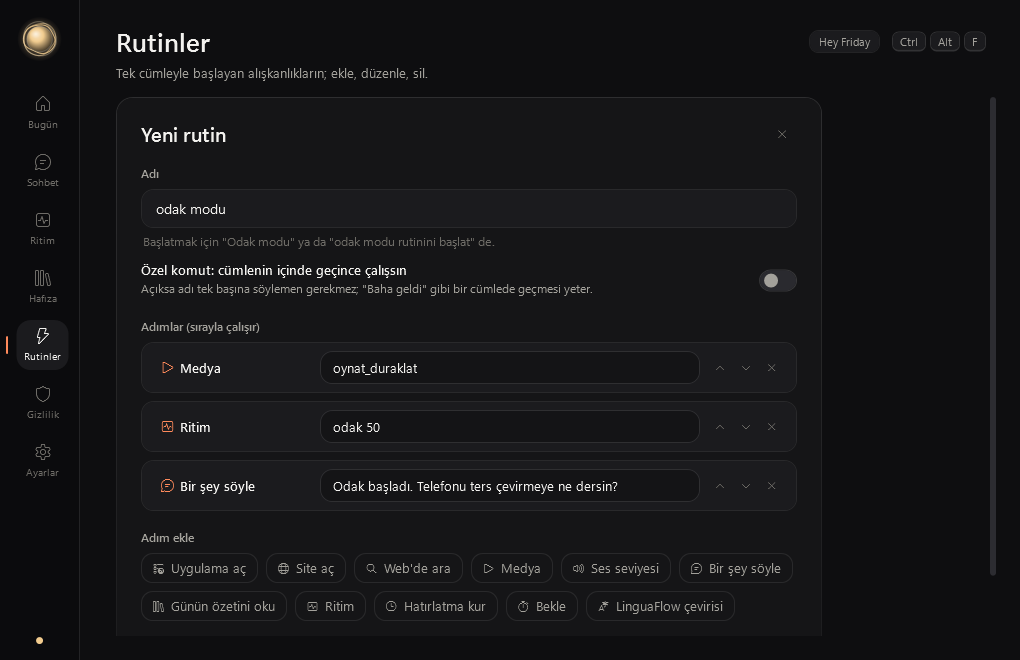
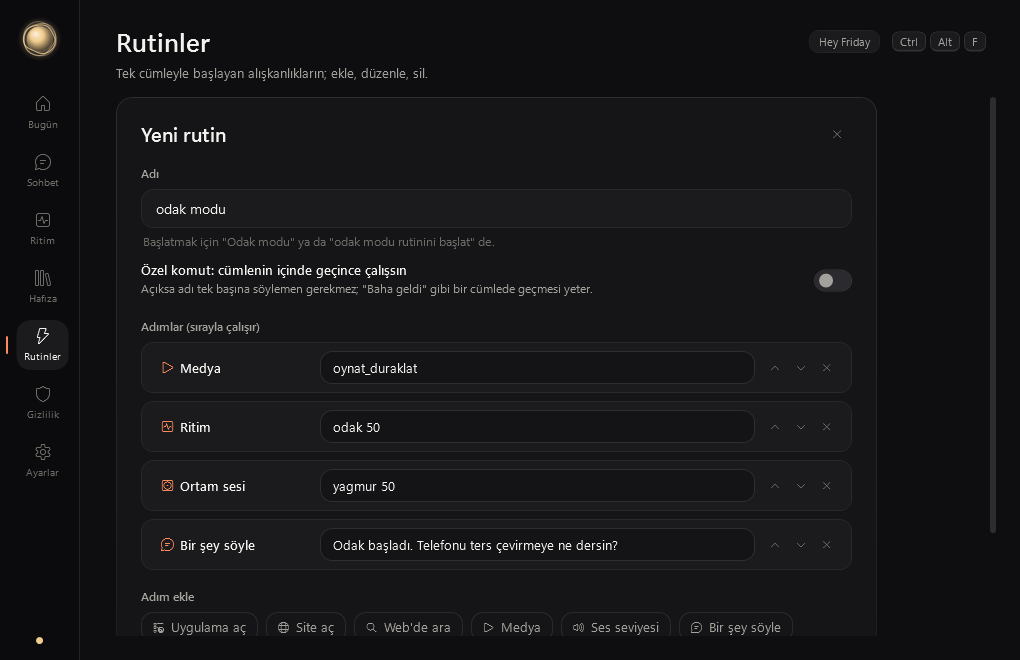
Document to-dos, recurring reminders and focus sounds

diff --git a/README.md b/README.md
@@ -11,6 +11,12 @@ Friday, Windows için Türkçe konuşan kişisel bir sesli asistan. **"Hey Frida
 | **"Hey Friday"** | Elin klavyede değilken seslenmen yeterli. Model Friday için bu bilgisayarda eğitildi ve işlemcide çalışır; ses kaydedilmez. Türkçe aksanla ("Hey Fraydey") da tanır. Ayarlardan kapatılır. |
 | **Sohbetler** | Her konuşma ayrı bir sohbet olarak saklanır; başlığı ilk sorudan kendiliğinden çıkar. Sol listede Bugün, Dün, Bu hafta diye gruplanır; sabitle, yeniden adlandır, Markdown olarak kaydet ya da sil. Bütün sohbetlerde arama yapılır ("istanbul" yazınca "İstanbul" geçenler de bulunur). Eski bir sohbeti açıp kaldığı yerden sürdürebilirsin; Friday o sohbetin bağlamıyla devam eder. "Yeni sohbet", "konuyu değiştirelim" ya da "sohbeti temizle" demen de yeter. Bir süre konuşmazsan (varsayılan 30 dk) sonraki soru kendiliğinden yeni bir sohbet olur. |
 | **Hızlı komut kutusu** | **Ctrl+Alt+Space** ile her yerden küçük bir kutu açılır (Raycast ya da Spotlight gibi): yaz, Enter'a bas, kutu kapanır, cevap köşede görünür ve okunur. Yazdıkça rutinlerin, son sorduğun şeyler ve hazır komutlar süzülür; ok tuşlarıyla seç, Tab ile tamamla. |
+| **Yapılacaklar** | "Yapılacaklara ekle: faturayı öde", "yapılacaklarım neler", "faturayı ödedim" (listede eşleşeni bulup tamamlar). Bugün ekranında işaretlenebilir bir liste ve yeni iş kutusu var. |
+| **Tekrarlayan hatırlatmalar** | "Her gün 9'da ilacımı hatırlat", "hafta içi her gün 18'de spora gitmeyi hatırlat", "her pazartesi 10'da toplantıyı hatırlat". Sabah/akşam denmezse "9'da" sabah dokuzdur. |
+| **Ortam sesleri** | "Yağmur sesi aç", "30 dakika beyaz gürültü aç", "dalga / şömine / rüzgâr sesi aç". Sesler dosya değil, o an bilgisayarda üretilir; Friday dinlerken ve konuşurken kısılır, süre dolunca yavaşça kapanır. "Odak modu" şablonu yağmurla başlar. |
+| **Alışkanlıklar** | Birkaç gündür aynı saatlerde açtığın bir rutini ya da uygulamayı o saat gelince önerir ("Genelde bu saatlerde çalışma modu rutinini çalıştırıyorsun. Çalıştırayım mı?") ve cevabını dinler. Ayarlardan kapatılır. |
+| **Pano geçmişi** | İsteğe bağlı: "kopyaladıklarım", "2. kopyaladığımı yapıştır", "bir önce kopyaladığımı yapıştır". Yalnızca bellekte, son 20 metin. |
+| **Küçük ama işe yarar** | "100 dolar kaç lira", "250 euro kaç dolar" (güncel kurla), "Discord'u kapat", "bu pencereyi kapat", "tekrar et" / "ne dedin". |
 | **Araştırma raporu** | "Yerel sesli asistanlar hakkında rapor hazırla" ya da "elektrikli arabaları araştır": Friday arka planda arar, en iyi dört sayfayı okur, yerel modelle kaynaklı bir rapor yazar (`D:\Friday\data\reports`, Markdown). Sen işine devam edersin; hazır olunca özetini söyler, "raporu aç" deyince açar. |
 | **Takvim** | Google ya da Outlook takviminin gizli iCal adresini Ayarlar › Takvim'e yapıştır: "bugün neler var", "yarın programım ne", "bu hafta neler var", "sıradaki toplantım ne". Etkinlikten 10 dk önce haber verir; sabah karşılaması ve Bugün ekranı etkinlikleri de gösterir. Tekrarlayan etkinlikler desteklenir. |
 | **İndirilenler'i düzenle** | "İndirilenleri düzenle" önce ne yapacağını söyler ("52 belge, 40 resim ve 12 video var, klasörlere ayırayım mı?"); "evet" deyince Belgeler, Resimler, Videolar, Müzik, Arşivler, Kurulumlar klasörlerine taşır. Yarım indirmelere ve yeni dosyalara dokunmaz. "Düzenlemeyi geri al" her şeyi eski yerine koyar. |
@@ -64,7 +70,7 @@ ya da Ctrl+Alt+F ─►  modeller uyuyorsa yüklenmeye başlar (sen konuşurken 
                 Whisper Large v3 Turbo, GPU (Vulkan)          → "yarın ankara'da hava nasıl"
                      │
                      ▼
-                Gemma 4 (Ollama, yerel) + 36 araç, nöbetçiler, takvim, araştırma raporu, görsel kartlar, dikte             → hava_durumu(sehir: "Ankara")
+                Gemma 4 (Ollama, yerel) + 37 araç, nöbetçiler, takvim, araştırma raporu, ortam sesleri, alışkanlıklar, görsel kartlar, dikte             → hava_durumu(sehir: "Ankara")
                      │   ▲                                       │
                      │   └──── araç sonucu ◄─────────────────────┘
                      ▼
@@ -244,6 +250,8 @@ Panelin **Ayarlar** bölümünden (kısayollar, Windows açılışında başlatm
 | `GpuIdleMinutes` | `2` | Bu kadar boşta kalınca dil modeli, Whisper ve Piper kapanır (GPU ve RAM boşalır) |
 | `City` | `İstanbul` | Hava durumunda şehir söylenmezse |
 | `CalendarUrl` | boş | Takvimin gizli iCal (.ics) adresi; boşsa takvim kapalı |
+| `HabitSuggestions` / `ClipboardHistory` | `true` / `false` | Alışkanlık önerileri; pano geçmişi (yalnızca bellekte) |
+| `AmbientVolume` | `0.25` | Ortam seslerinin düzeyi (0–1) |
 | `KeepHistory` | `true` | Sohbetleri `D:\Friday\data\chats` altında sakla |
 | `LinguaFlowPath` | LinguaFlow yayını | "Bu videoyu çevir" komutu |
 | `Routines` | çalışma modu, günaydın, mola, toplantı modu, iyi geceler | Panelden düzenlenir. Adımlar: `uygulama:`, `site:`, `ara:`, `medya:`, `ses:30`, `soyle:`, `ozet`, `ritim:odak 25`, `hatirlat:5 dakika sonra\|çay`, `bekle:3`, `linguaflow` |
@@ -258,6 +266,7 @@ Panelin **Ayarlar** bölümünden (kısayollar, Windows açılışında başlatm
 - Sohbetler, hafıza ve hatırlatmalar Ayarlar › Verilerin bölümünden tek tıkla (onayla) kalıcı olarak silinir.
 - "Ekran görüntüsü al" görüntüyü yalnızca `D:\Friday\data\captures` altına kaydeder. "İnternet gelince haber ver" nöbeti sürerken 10 sn'de bir 1.1.1.1'e ping atar; bu da deftere yazılır. Durum raporu ve nöbetler yalnızca sistem sayaçlarını ve `nvidia-smi`'yi okur. "Gündem ne" haber akışını (TRT Haber) indirir; bu da deftere yazılır.
 - Araştırma raporu arama motoruna yalnızca konuyu gönderir, sayfaları okur ve raporu yerel modelle yazar; her sayfa deftere yazılır. Takvim adresi yalnızca `settings.json`'da durur, takvim 15 dk'da bir okunur.
+- Pano geçmişi varsayılan kapalıdır; açılırsa metinler yalnızca bellekte tutulur ve Friday kapanınca silinir. Alışkanlık kaydı (`habits.json`) yalnızca hangi rutinin ya da uygulamanın ne zaman açıldığını tutar, 30 günden eskisini siler.
 - Seçili metin komutları seçimi Ctrl+C ile alır, yerel modelde işler ve panonun eski içeriğini geri koyar. Dikte sesi kaydetmez; yazılan metin sohbete de yazılmaz.
 
 ## Geliştirme
